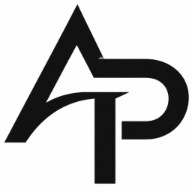
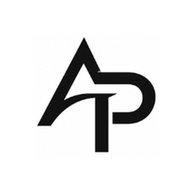
feat: implement responsive navigation and footer components with assets and branding

Changed region(s): [[0.0, 0.0312, 1.0, 0.9688]]

diff --git a/frontend/src/components/About.jsx b/frontend/src/components/About.jsx
@@ -112,37 +112,55 @@ const About = () => {
           {/* Right Column: Profile Dossier & Key Credentials (5 Cols) */}
           <div className="lg:col-span-5 space-y-6">
             
-            {/* Profile Dossier Card */}
+            {/* Profile Dossier Card with Compact Vertical Portrait */}
             <div className="p-6 rounded-2xl border card-arch relative overflow-hidden"
               style={{ background: 'var(--bg-card)' }}
             >
-              <div className="flex items-center gap-4 mb-6">
-                <div className="w-16 h-16 rounded-2xl overflow-hidden border-2 shrink-0 card-arch"
+              {/* Header: Compact 530x690 Vertical Portrait Photo + Info */}
+              <div className="flex flex-col sm:flex-row items-start sm:items-center gap-5 mb-6 pb-6 border-b"
+                style={{ borderColor: 'var(--border)' }}
+              >
+                
+                {/* 530x690 Aspect Ratio Vertical Frame */}
+                <div className="w-28 sm:w-32 aspect-[530/690] rounded-xl overflow-hidden border-2 shrink-0 card-arch shadow-sm relative group"
                   style={{ borderColor: 'var(--accent)' }}
                 >
                   <img
                     src={personalInfo.profileImage}
                     alt={personalInfo.name}
-                    className="w-full h-full object-cover"
+                    className="w-full h-full object-cover object-center transition-transform duration-500 group-hover:scale-105"
                     onError={(e) => {
                       e.target.onerror = null
-                      e.target.src = 'https://via.placeholder.com/150'
+                      e.target.src = 'https://via.placeholder.com/530x690?text=Arpan'
                     }}
                   />
                 </div>
-                
-                <div>
-                  <h3 className="font-display font-bold text-xl" style={{ color: 'var(--text-primary)' }}>
+
+                {/* Dossier Info Header */}
+                <div className="space-y-1.5 flex-1 min-w-0">
+                  <div className="inline-flex items-center gap-1.5 font-mono text-[10px] uppercase tracking-wider px-2 py-0.5 rounded border"
+                    style={{ borderColor: 'var(--accent-tertiary)', color: 'var(--accent-tertiary)', background: 'var(--bg-secondary)' }}
+                  >
+                    <span className="w-1.5 h-1.5 rounded-full bg-[var(--accent-tertiary)] animate-pulse" />
+                    <span>VERIFIED ENGINEER</span>
+                  </div>
+
+                  <h3 className="font-display font-black text-2xl tracking-tight"
+                    style={{ color: 'var(--text-primary)' }}
+                  >
                     {personalInfo.name}
                   </h3>
-                  <div className="font-mono text-xs mt-0.5" style={{ color: 'var(--accent)' }}>
+
+                  <div className="font-mono text-xs font-semibold" style={{ color: 'var(--accent)' }}>
                     B.Tech CSE (AI & ML) • 2023–2027
                   </div>
-                  <div className="flex items-center gap-1 font-mono text-[11px] mt-1" style={{ color: 'var(--text-tertiary)' }}>
-                    <MapPin size={12} />
+
+                  <div className="flex items-center gap-1.5 font-mono text-xs pt-0.5" style={{ color: 'var(--text-secondary)' }}>
+                    <MapPin size={13} className="text-[var(--accent)] shrink-0" />
                     <span>West Bengal, India</span>
                   </div>
                 </div>
+
               </div>
 
               {/* Dossier Quick Ledger */}

diff --git a/frontend/src/components/Footer.jsx b/frontend/src/components/Footer.jsx
@@ -21,7 +21,7 @@ const Footer = () => {
             <div className="w-8 h-8 rounded-lg border overflow-hidden flex items-center justify-center card-arch"
               style={{ background: 'var(--bg-card)', borderColor: 'var(--border)' }}
             >
-              <img src="/apple-touch-icon.png" alt="Arpan Pramanik Logo" className="w-full h-full object-cover p-0.5" />
+              <img src="/nav-logo.png" alt="Arpan Pramanik Logo" className="w-full h-full object-cover p-0.5" />
             </div>
             <div>
               <div className="font-bold" style={{ color: 'var(--text-primary)' }}>

diff --git a/frontend/src/components/Navbar.jsx b/frontend/src/components/Navbar.jsx
@@ -53,7 +53,7 @@ const Navbar = () => {
                     borderColor: 'var(--border)'
                   }}
                 >
-                  <img src="/apple-touch-icon.png" alt="Arpan Pramanik Logo" className="w-full h-full object-cover p-0.5" />
+                  <img src="/nav-logo.png" alt="Arpan Pramanik Logo" className="w-full h-full object-cover p-0.5" />
                 </div>
                 <div className="flex flex-col">
                   <span className="font-display font-bold text-base tracking-tight leading-none group-hover:text-[var(--accent)] transition-colors"
